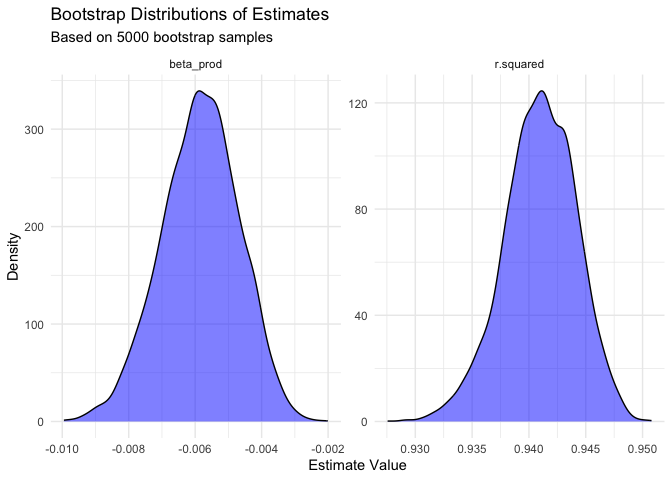
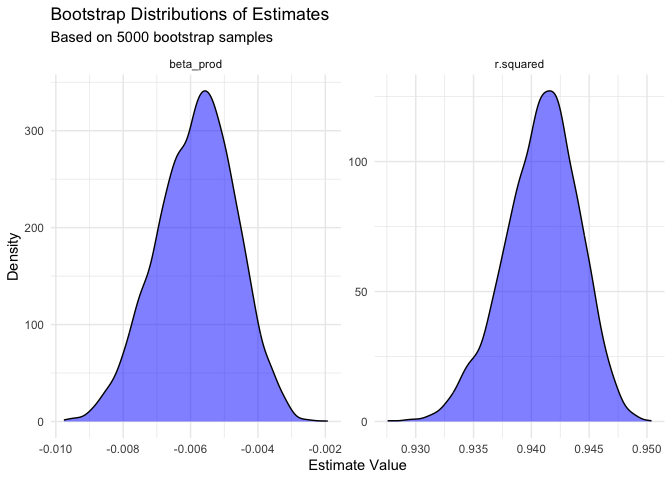
problem 3

diff --git a/p8105_hw6_zn2220.md b/p8105_hw6_zn2220.md
@@ -282,16 +282,16 @@ print(boot_results)
     ## # A tibble: 10,000 × 3
     ##    .id   term      estimate
     ##    <chr> <chr>        <dbl>
-    ##  1 0001  r.squared  0.943  
-    ##  2 0001  beta_prod -0.00480
+    ##  1 0001  r.squared  0.945  
+    ##  2 0001  beta_prod -0.00752
     ##  3 0002  r.squared  0.939  
-    ##  4 0002  beta_prod -0.00765
-    ##  5 0003  r.squared  0.944  
-    ##  6 0003  beta_prod -0.00844
-    ##  7 0004  r.squared  0.941  
-    ##  8 0004  beta_prod -0.00524
-    ##  9 0005  r.squared  0.945  
-    ## 10 0005  beta_prod -0.00759
+    ##  4 0002  beta_prod -0.00539
+    ##  5 0003  r.squared  0.934  
+    ##  6 0003  beta_prod -0.00607
+    ##  7 0004  r.squared  0.937  
+    ##  8 0004  beta_prod -0.00653
+    ##  9 0005  r.squared  0.937  
+    ## 10 0005  beta_prod -0.00542
     ## # ℹ 9,990 more rows
 
 ## Plot the distribution of your estimates, and describe these in words.
@@ -347,8 +347,8 @@ knitr::kable(ci_results)
 
 | term      |   ci_lower |   ci_upper |
 |:----------|-----------:|-----------:|
-| beta_prod | -0.0082141 | -0.0036806 |
-| r.squared |  0.9342302 |  0.9468060 |
+| beta_prod | -0.0082014 | -0.0036515 |
+| r.squared |  0.9340179 |  0.9465274 |
 
 - beta_prod (Significant Negative Effect):  
   The 95% confidence interval for
@@ -366,3 +366,86 @@ knitr::kable(ci_results)
   be 95% confident that the predictors explain between 93.4% and 94.7%
   of the variation in maximum temperature, demonstrating strong and
   stable predictive performance.
+
+# Problem 3
+
+## Load and clean the data for regression analysis
+
+``` r
+birthweight_df = 
+  read_csv("https://p8105.com/data/birthweight.csv") |> 
+  janitor::clean_names() |> 
+  mutate(
+    babysex = as.factor(babysex),
+    frace = as.factor(frace),
+    mrace = as.factor(mrace),
+    malform = as.factor(malform)
+  ) |> 
+  drop_na()
+```
+
+    ## Rows: 4342 Columns: 20
+    ## ── Column specification ────────────────────────────────────────────────────────
+    ## Delimiter: ","
+    ## dbl (20): babysex, bhead, blength, bwt, delwt, fincome, frace, gaweeks, malf...
+    ## 
+    ## ℹ Use `spec()` to retrieve the full column specification for this data.
+    ## ℹ Specify the column types or set `show_col_types = FALSE` to quiet this message.
+
+## Propose a regression model for birthweight. Describe your modeling process and show a plot of model residuals against fitted values
+
+``` r
+my_model = lm(bwt ~ babysex + bhead + blength + delwt + gaweeks + smoken + wtgain, data = birthweight_df)
+
+birthweight_df |> 
+  add_predictions(my_model) |> 
+  add_residuals(my_model) |> 
+  ggplot(aes(x = pred, y = resid)) + 
+  geom_point(alpha = 0.5) +
+  geom_hline(yintercept = 0, color = "red") +
+  labs(
+    title = "Residuals vs Fitted Values",
+    x = "Fitted Values (Prediction)",
+    y = "Residuals"
+  )
+```
+
+![](p8105_hw6_zn2220_files/figure-gfm/unnamed-chunk-11-1.png)<!-- -->
+
+## Compare your model to two others & 4. Make this comparison in terms of the cross-validated prediction error
+
+``` r
+cv_df = 
+  crossv_mc(birthweight_df, 100) |> 
+  mutate(
+    train = map(train, as_tibble),
+    test = map(test, as_tibble)
+  )
+
+cv_results = 
+  cv_df |> 
+  mutate(
+    proposed_mod  = map(train, \(df) lm(bwt ~ babysex + bhead + blength + delwt + gaweeks + smoken + wtgain, data = df)),
+    main_eff_mod  = map(train, \(df) lm(bwt ~ blength + gaweeks, data = df)),
+    interaction_mod = map(train, \(df) lm(bwt ~ bhead * blength * babysex, data = df))
+  ) |> 
+  mutate(
+    rmse_proposed = map2_dbl(proposed_mod, test, \(mod, df) rmse(mod, df)),
+    rmse_main_eff = map2_dbl(main_eff_mod, test, \(mod, df) rmse(mod, df)),
+    rmse_interaction = map2_dbl(interaction_mod, test, \(mod, df) rmse(mod, df))
+  )
+
+cv_results |> 
+  select(starts_with("rmse")) |> 
+  pivot_longer(
+    everything(),
+    names_to = "model", 
+    values_to = "rmse",
+    names_prefix = "rmse_"
+  ) |> 
+  mutate(model = fct_inorder(model)) |> 
+  ggplot(aes(x = model, y = rmse)) + 
+  geom_violin()
+```
+
+![](p8105_hw6_zn2220_files/figure-gfm/unnamed-chunk-12-1.png)<!-- -->
